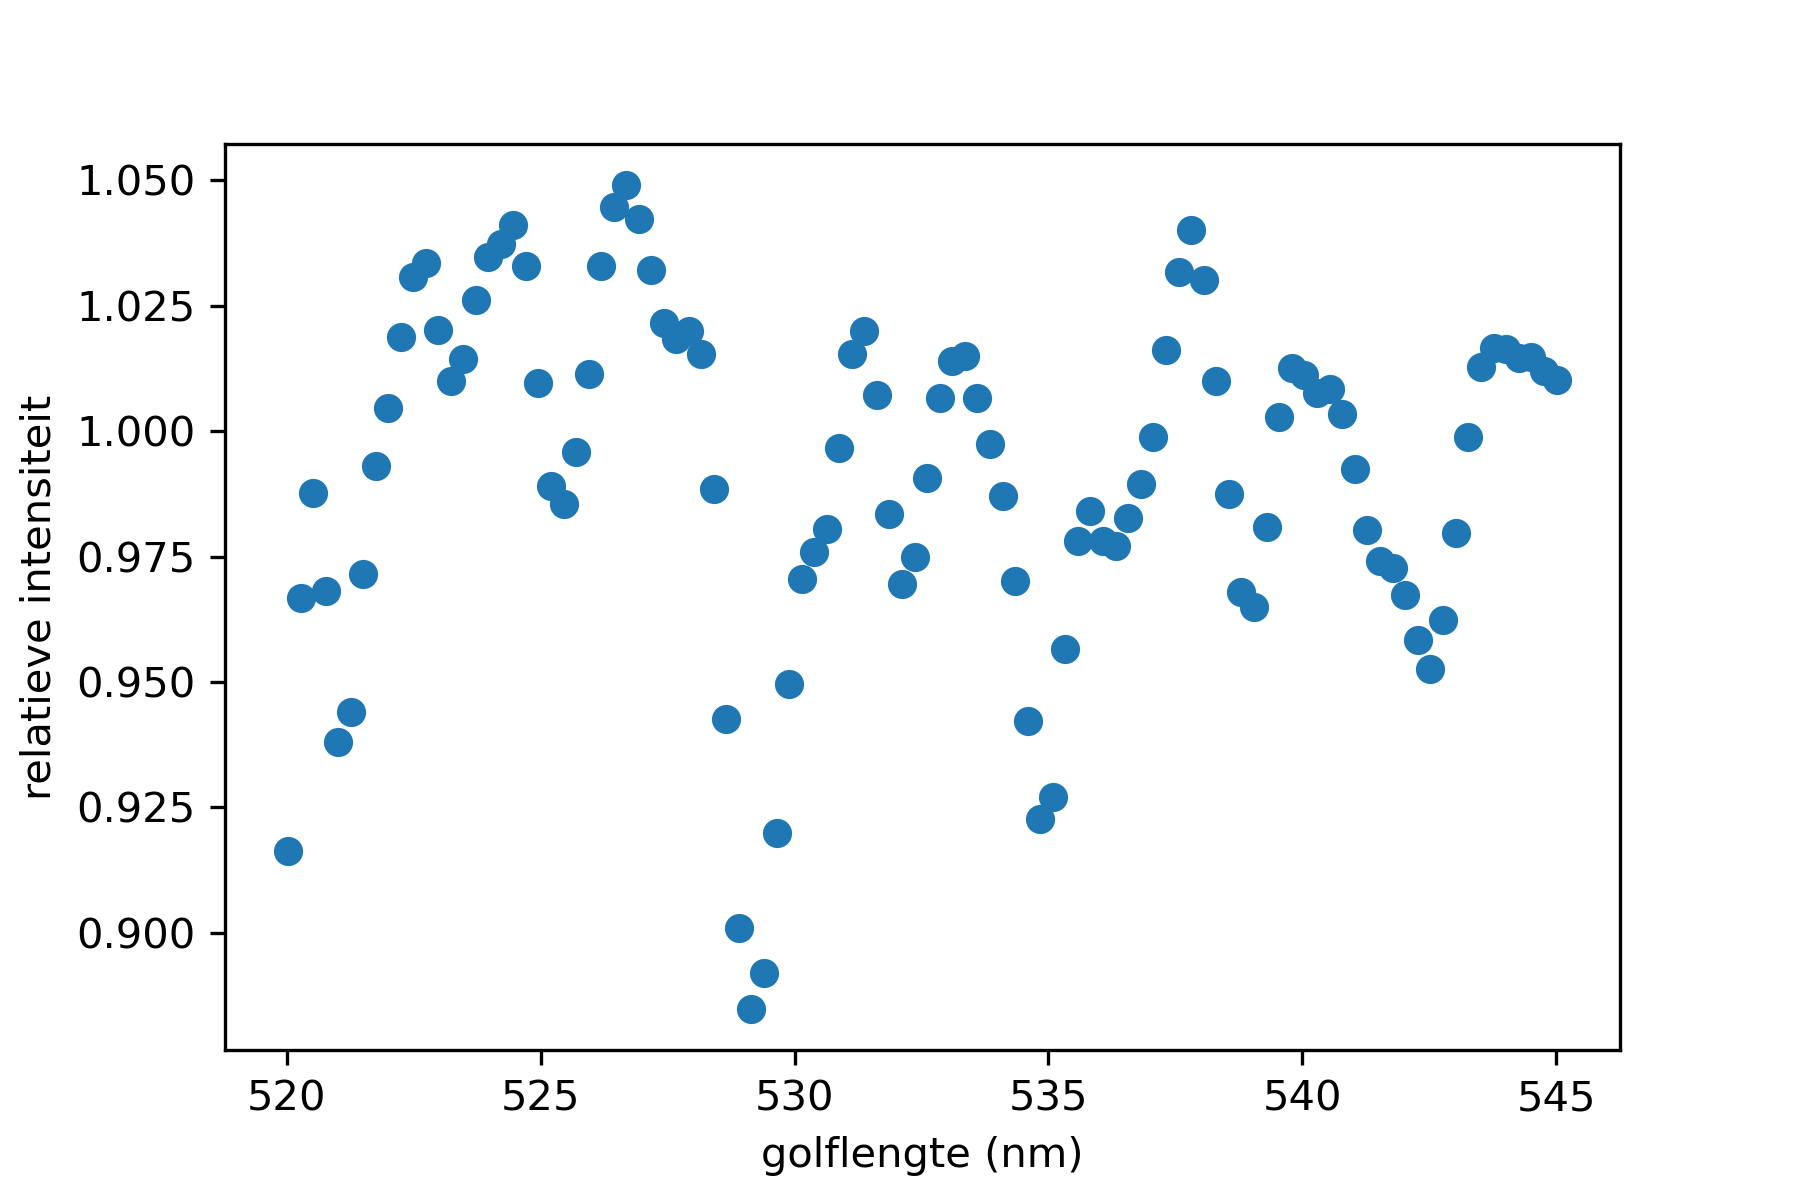
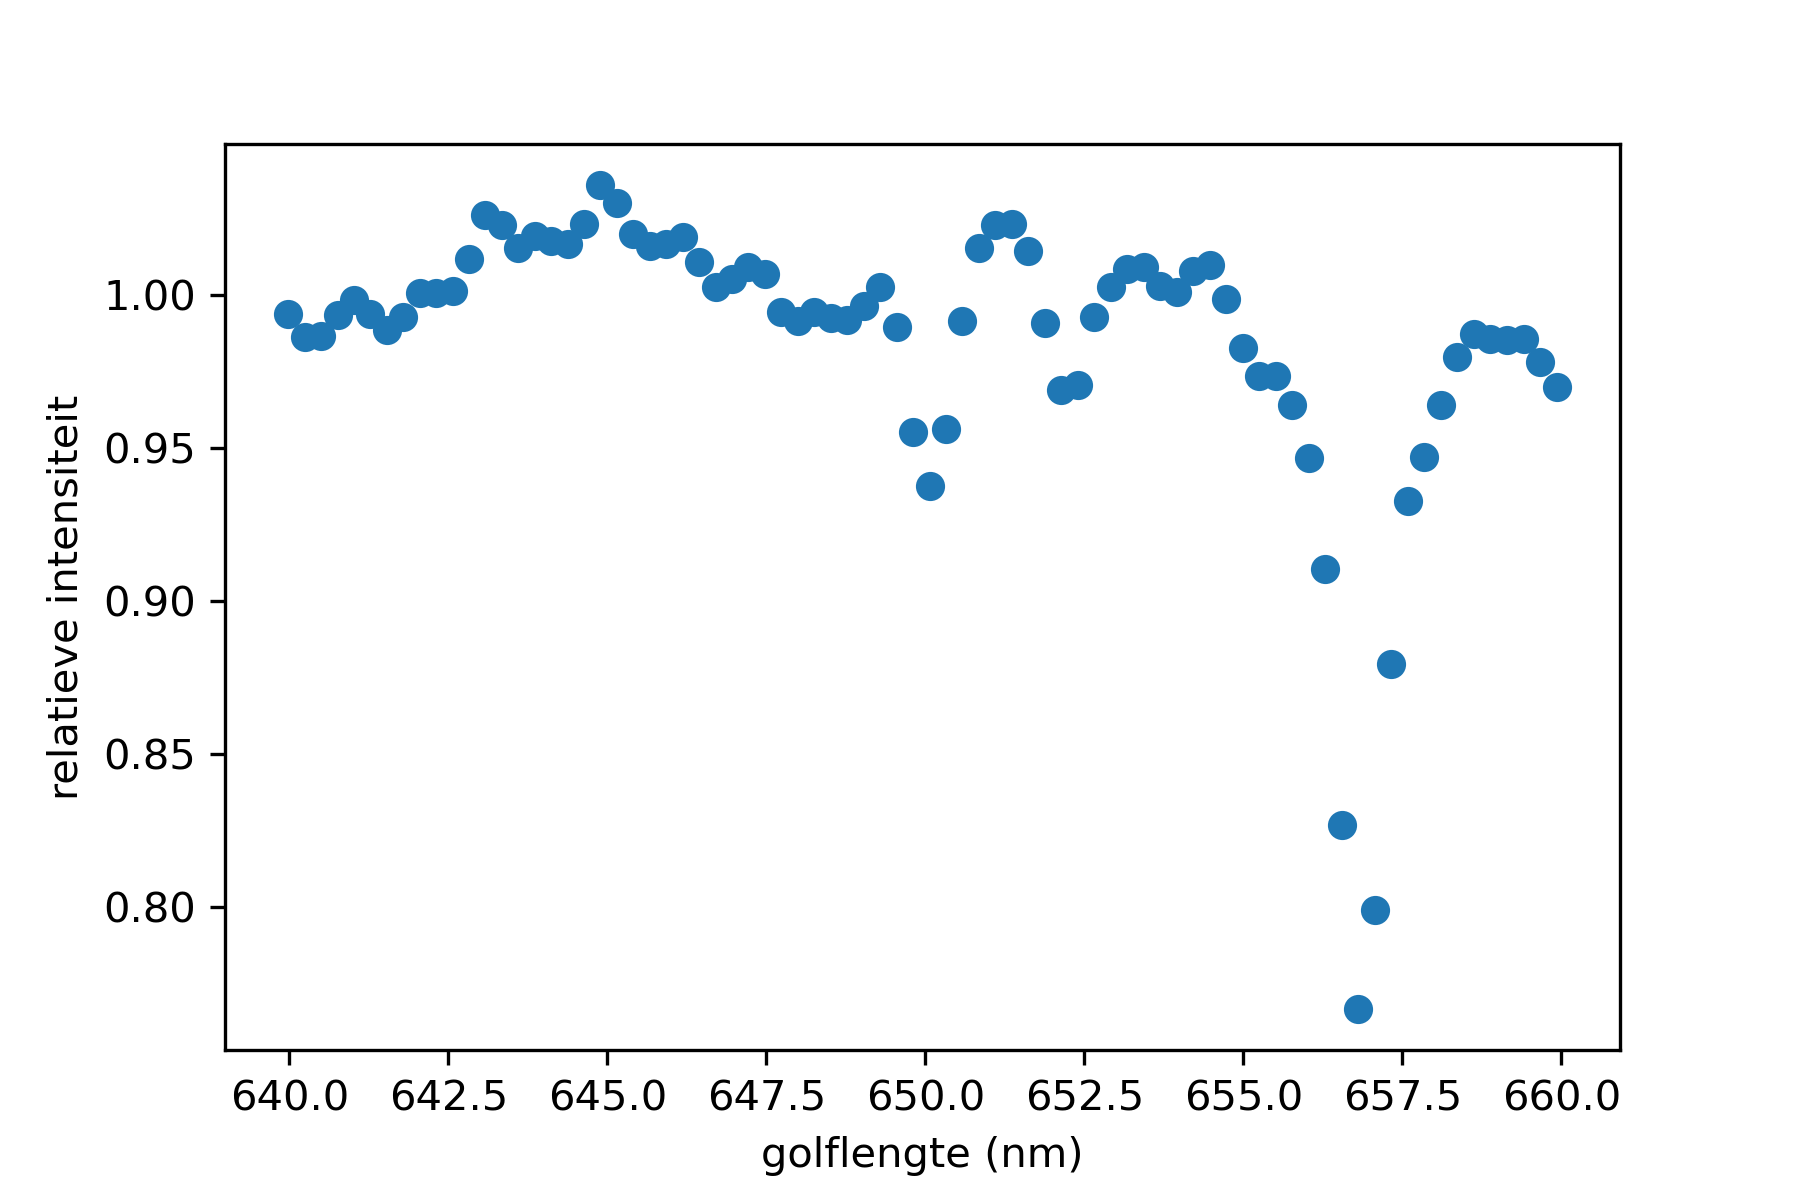
new

diff --git a/normalize.py b/normalize.py
@@ -137,15 +137,15 @@ class Normalize:
         
         y_norm = y / y_fit
         return y_norm
-        
+    
 data_folder = str('/home/gideon/Documents/NSP2/LISA data/Verschillende hoogtes/Sky_angles/Sky_angles')
 degrees = str('30')
 measurement=str('002')
 
 meting = Normalize(data_folder, degrees, measurement)
-x, y = meting.isolate(520,545)
+x, y = meting.isolate(640,660)
 
-xm,ym = meting.mask_peak(531, 1.0)
+xm,ym = meting.mask_peak(656, 0.5)
 ys=meting.smooth_function(10)
 meting.curve_fit()
 yn = meting.normalize()
@@ -163,4 +163,3 @@ plt.plot(x,yn, 'o')
 plt.xlabel('golflengte (nm)')
 plt.ylabel('relatieve intensiteit')
 plt.savefig('norm.png', dpi=300)
-

diff --git a/neon_lines.py b/neon_lines.py
@@ -36,10 +36,10 @@ def neondata():
     avg = np.mean(reduced_neon_set, axis=0)
     err = np.std(reduced_neon_set, axis=0) / np.sqrt(10)
 
-    return avg, err, neon_set
+    return avg, err
     
 # crop to effective data, plot
-data, err, _ = neondata()
+data, err = neondata()
 
 # make data x and y instead of just y
 x = np.array([i for i in range(len(data))])[735:1050]
